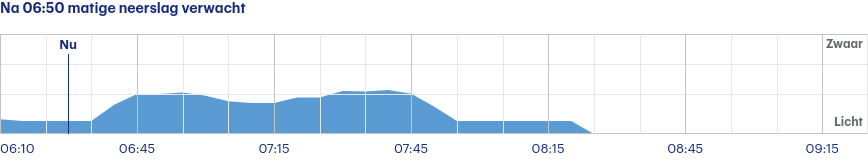
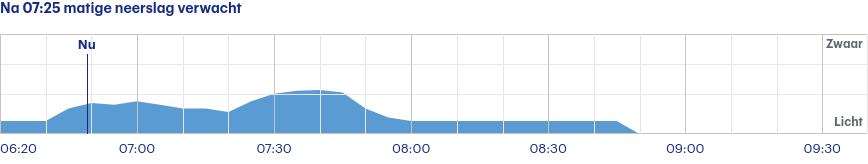
Latest scraping buienradar: Sun Aug  6 04:40:31 UTC 2023

diff --git a/scrapes/buienradar/buienradar-jette-3-uur.md b/scrapes/buienradar/buienradar-jette-3-uur.md
@@ -1,4 +1,4 @@
-Na 06:50 matige neerslag verwacht
+Na 07:25 matige neerslag verwacht
 
 ![](buienradar-jette-3-uur.png)
 
